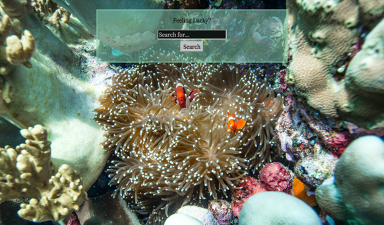
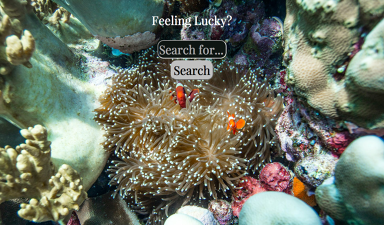
Changes to site design

Changed region(s): [[0.25, 0.0311, 0.75, 0.3733]]

diff --git a/style.css b/style.css
@@ -9,16 +9,10 @@ a:visited {
 }
 
 
-
 .mastdiv {
-	/*margin-top: 7vh;*/
-	height: 100vh;
-	line-height: 100%;
-	display: flex;
-	justify-content: center;
-	align-items: center;
-	flex-direction: column;
-	background-image: url("./img/beach.jpg");
+	min-height: 100vh;
+	text-align: center;
+	background-image: url("./img/virginia.jpg");
 	background-repeat: no-repeat;
 	background-size: cover;
 	background-attachment: fixed;
@@ -26,11 +20,16 @@ a:visited {
 
 
 .heading {
-  font-size: 2.5em;
-	color: black;
+	margin: 0 auto;
+	padding: none;
+	padding-top: 35vh;
+  font-size: 3.5em;
+	color: #000;
 }
 
 .contained {
+	display: inline-block;
+	height: 50px;
 	cursor: default;
 }
 
@@ -39,70 +38,49 @@ a:-webkit-any-link {
 }
 
 .link {
-	opacity: .7;
 	color: none;
 	background-color: none;
 	inherit: none;
 	height: 30px;
 }
 
-.link:hover {
-	inherit: none;
-	opacity: 1;
-	cursor: pointer;
-}
-
 .mastdiv2 {
-	height: 100vh;
-	background-image: url("./img/pier.jpg");
+  text-align: center;
+  font-size: 2em;
+  color: #000;
+	min-height: 100vh;
+	background-image: url("./img/hontoon.jpg");
 	background-repeat: no-repeat;
 	background-size: cover;
 	background-attachment: fixed;
-}
-
-.description {
-	display: flex;
-	justify-content: center;
-	align-items: center;
-	width: 100vw;
-	height: 100vh;
-	margin-bottom: none;
-	background: rgba(200, 54, 54, 0.5);
 }
 
 .fullDescription {
-	line-height: 120%;
-	color: white;
-	font-size: 2em;
-	margin-right: 3%;
+	margin: 0;
+	padding-top: 25vh;
 }
 
 .mastdiv3 {
-	height: 100vh;
-	background-image: url("./img/dunes.jpg");
+  text-align: center;
+	min-height: 100vh;
+	background-image: url("./img/asheville.jpg");
 	background-repeat: no-repeat;
 	background-attachment: fixed;
 	background-size: cover;
-	color: white;
-	text-align: center;
+	color: #000;
 }
 
 .portfolio {
-	display: block;
-	margin: 0 auto;
-	padding-top: 50px;
+	margin: 0;
+	color: #fff;
+	padding-top: 2.5%;
   font-size: 3em;
 }
 
 .portfolioImages {
-	margin: 5px;
-	height: 25%;
-	border: solid #000;
-	opacity: 1;
-}
-
-.portfolioImages:hover {
-	opacity: .7;
+	width: 95%;
+	margin-top: 50px;
+	border: solid 1px #000;
 }
 
 
@@ -110,14 +88,15 @@ a:-webkit-any-link {
 
 
 @media(min-width: 500px) {
-	.fullDescription {
-		font-size: 3em;
-		padding: 15% 30px;
-		margin-right: 17px;
-	}
 
 	.heading {
 	  font-size: 5em;
+	}
+
+	.portfolioImages {
+		width: 50%;
+		margin-top: 50px;
+		border: solid 1px #000;
 	}
 
 }
@@ -128,6 +107,46 @@ a:-webkit-any-link {
 
 	.heading {
 	   font-size: 10em;
+		 padding-top: 250px;
+	}
+
+	.link {
+		opacity: .7;
+		color: none;
+		background-color: none;
+		inherit: none;
+		height: 30px;
+	}
+
+	.link:hover {
+		inherit: none;
+		opacity: 1;
+		cursor: pointer;
+	}
+
+	.mastdiv2 {
+		font-size: 3.5em;
+	}
+
+	.fullDescription {
+		margin: 0;
+		padding-top: 15%;
+	}
+
+	.portfolio {
+		font-size: 5em;
+	}
+
+	.portfolioImages {
+		width: 400px;
+		height: 200px;
+		margin-right: 25px;
+		display: inline-block;
+		opacity: 1;
+	}
+
+	.portfolioImages:hover {
+		opacity: .7;
 	}
 
 }
@@ -137,39 +156,15 @@ a:-webkit-any-link {
    .link {
 		 height: 25px;
 	 }
+
+	 .mastdiv2 {
+ 		font-size: 4em;
+ 	}
 }
 
 
-@media screen and (min-width: 1242px) {
-	.portfolioImages {
-	margin-top: 200px;
-	height: 30%;
-}
-}
-
-@media screen and (min-width: 1400px) {
-	.fullDescription {
-		font-size: 4em;
-		margin-right: 20px;
-}
-
-}
-
-@media screen and (max-width: 320px) {
-	body {
-		font-size: .5em;
-	}
-
-	h1 {
-		font-size: .5em;
-	}
-
-	h3 {
-		font-size: .5em;
-	}
 
 
-}
 
 
 /*.mastdiv1 {

diff --git a/index.html b/index.html
@@ -20,20 +20,24 @@
 		</div>
   </div>
 	<div id="about" class="mastdiv2">
-		<div class="description">
-			<p class="fullDescription">I am an aspiring full stack web developer. My time is primarily invested in completing Free Code Camp's front end development certification. I love all things javascript. Feel free to email me at: slavencorey@gmail.com</p>
-		</div>
+			<p class="fullDescription">I am an aspiring full stack web developer. My time is primarily invested in completing Free Code Camp's front end development certification. Feel free to email me at: slavencorey@gmail.com</p>
 	</div>
 	<div id="portfolio" class="mastdiv3">
 		<h2 class="portfolio">Portfolio</h2>
-		<a class="portfolioLink" href="http://codepen.io/purpledrumsticks/pen/qNjjyZ" target="_blank">
+		<a class="portfolioLink" href="http://codepen.io/purpledrumsticks/full/qNjjyZ/" target="_blank">
 			<img class="portfolioImages" src="./img/portfolio_1.png" alt="app image">
 		</a>
-		<a class="portfolioLink" href="http://codepen.io/purpledrumsticks/pen/mEOZew" target="_blank">
+		<a class="portfolioLink" href="http://codepen.io/purpledrumsticks/full/mEOZew/" target="_blank">
 			<img class="portfolioImages" src="./img/portfolio_2.png" alt="app image">
 		</a>
-		<a class="portfolioLink" href="http://codepen.io/purpledrumsticks/pen/KMMOmq" target="_blank">
+		<a class="portfolioLink" href="http://codepen.io/purpledrumsticks/full/KMMOmq/" target="_blank">
 			<img class="portfolioImages" src="./img/portfolio_3.png" alt="app image">
+		</a>
+    <a class="portfolioLink" href="http://codepen.io/purpledrumsticks/full/KgrxLO/" target="_blank">
+			<img class="portfolioImages" src="./img/portfolio_4.png" alt="app image">
+		</a>
+    <a class="portfolioLink" href="http://codepen.io/purpledrumsticks/full/pEjdbq/" target="_blank">
+			<img class="portfolioImages" src="./img/portfolio_5.png" alt="app image">
 		</a>
 	</div>
 </body>
